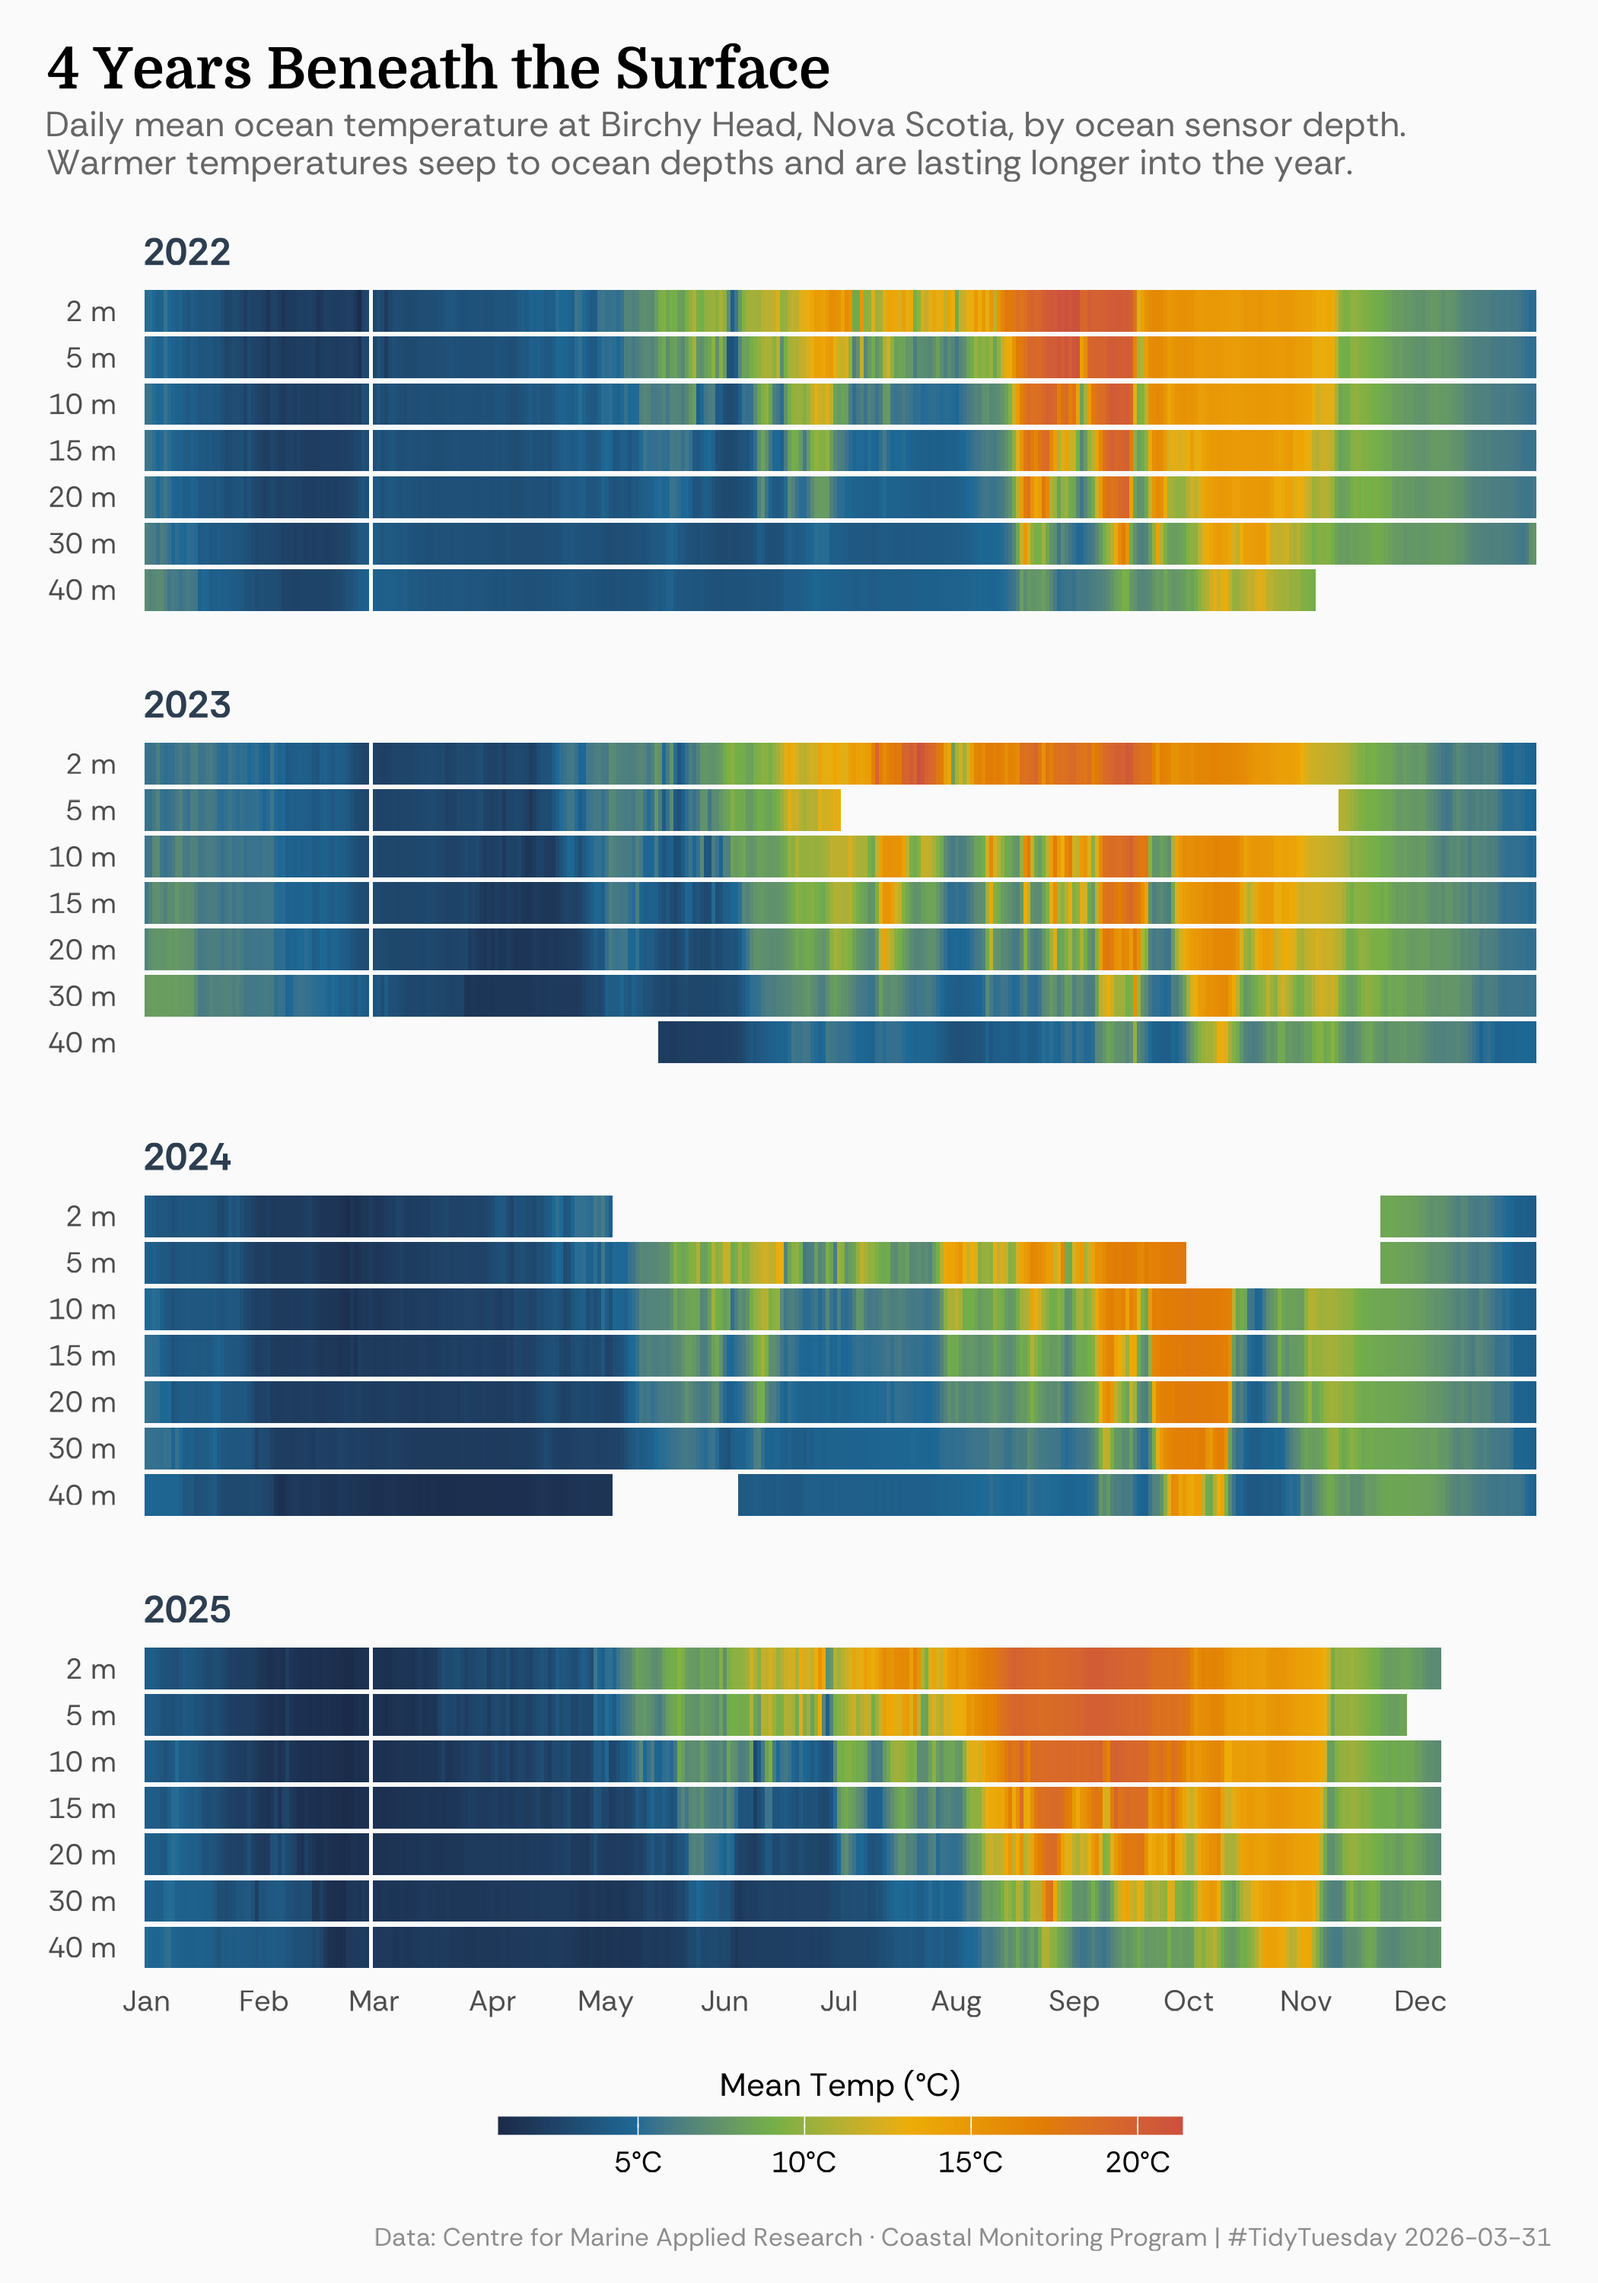
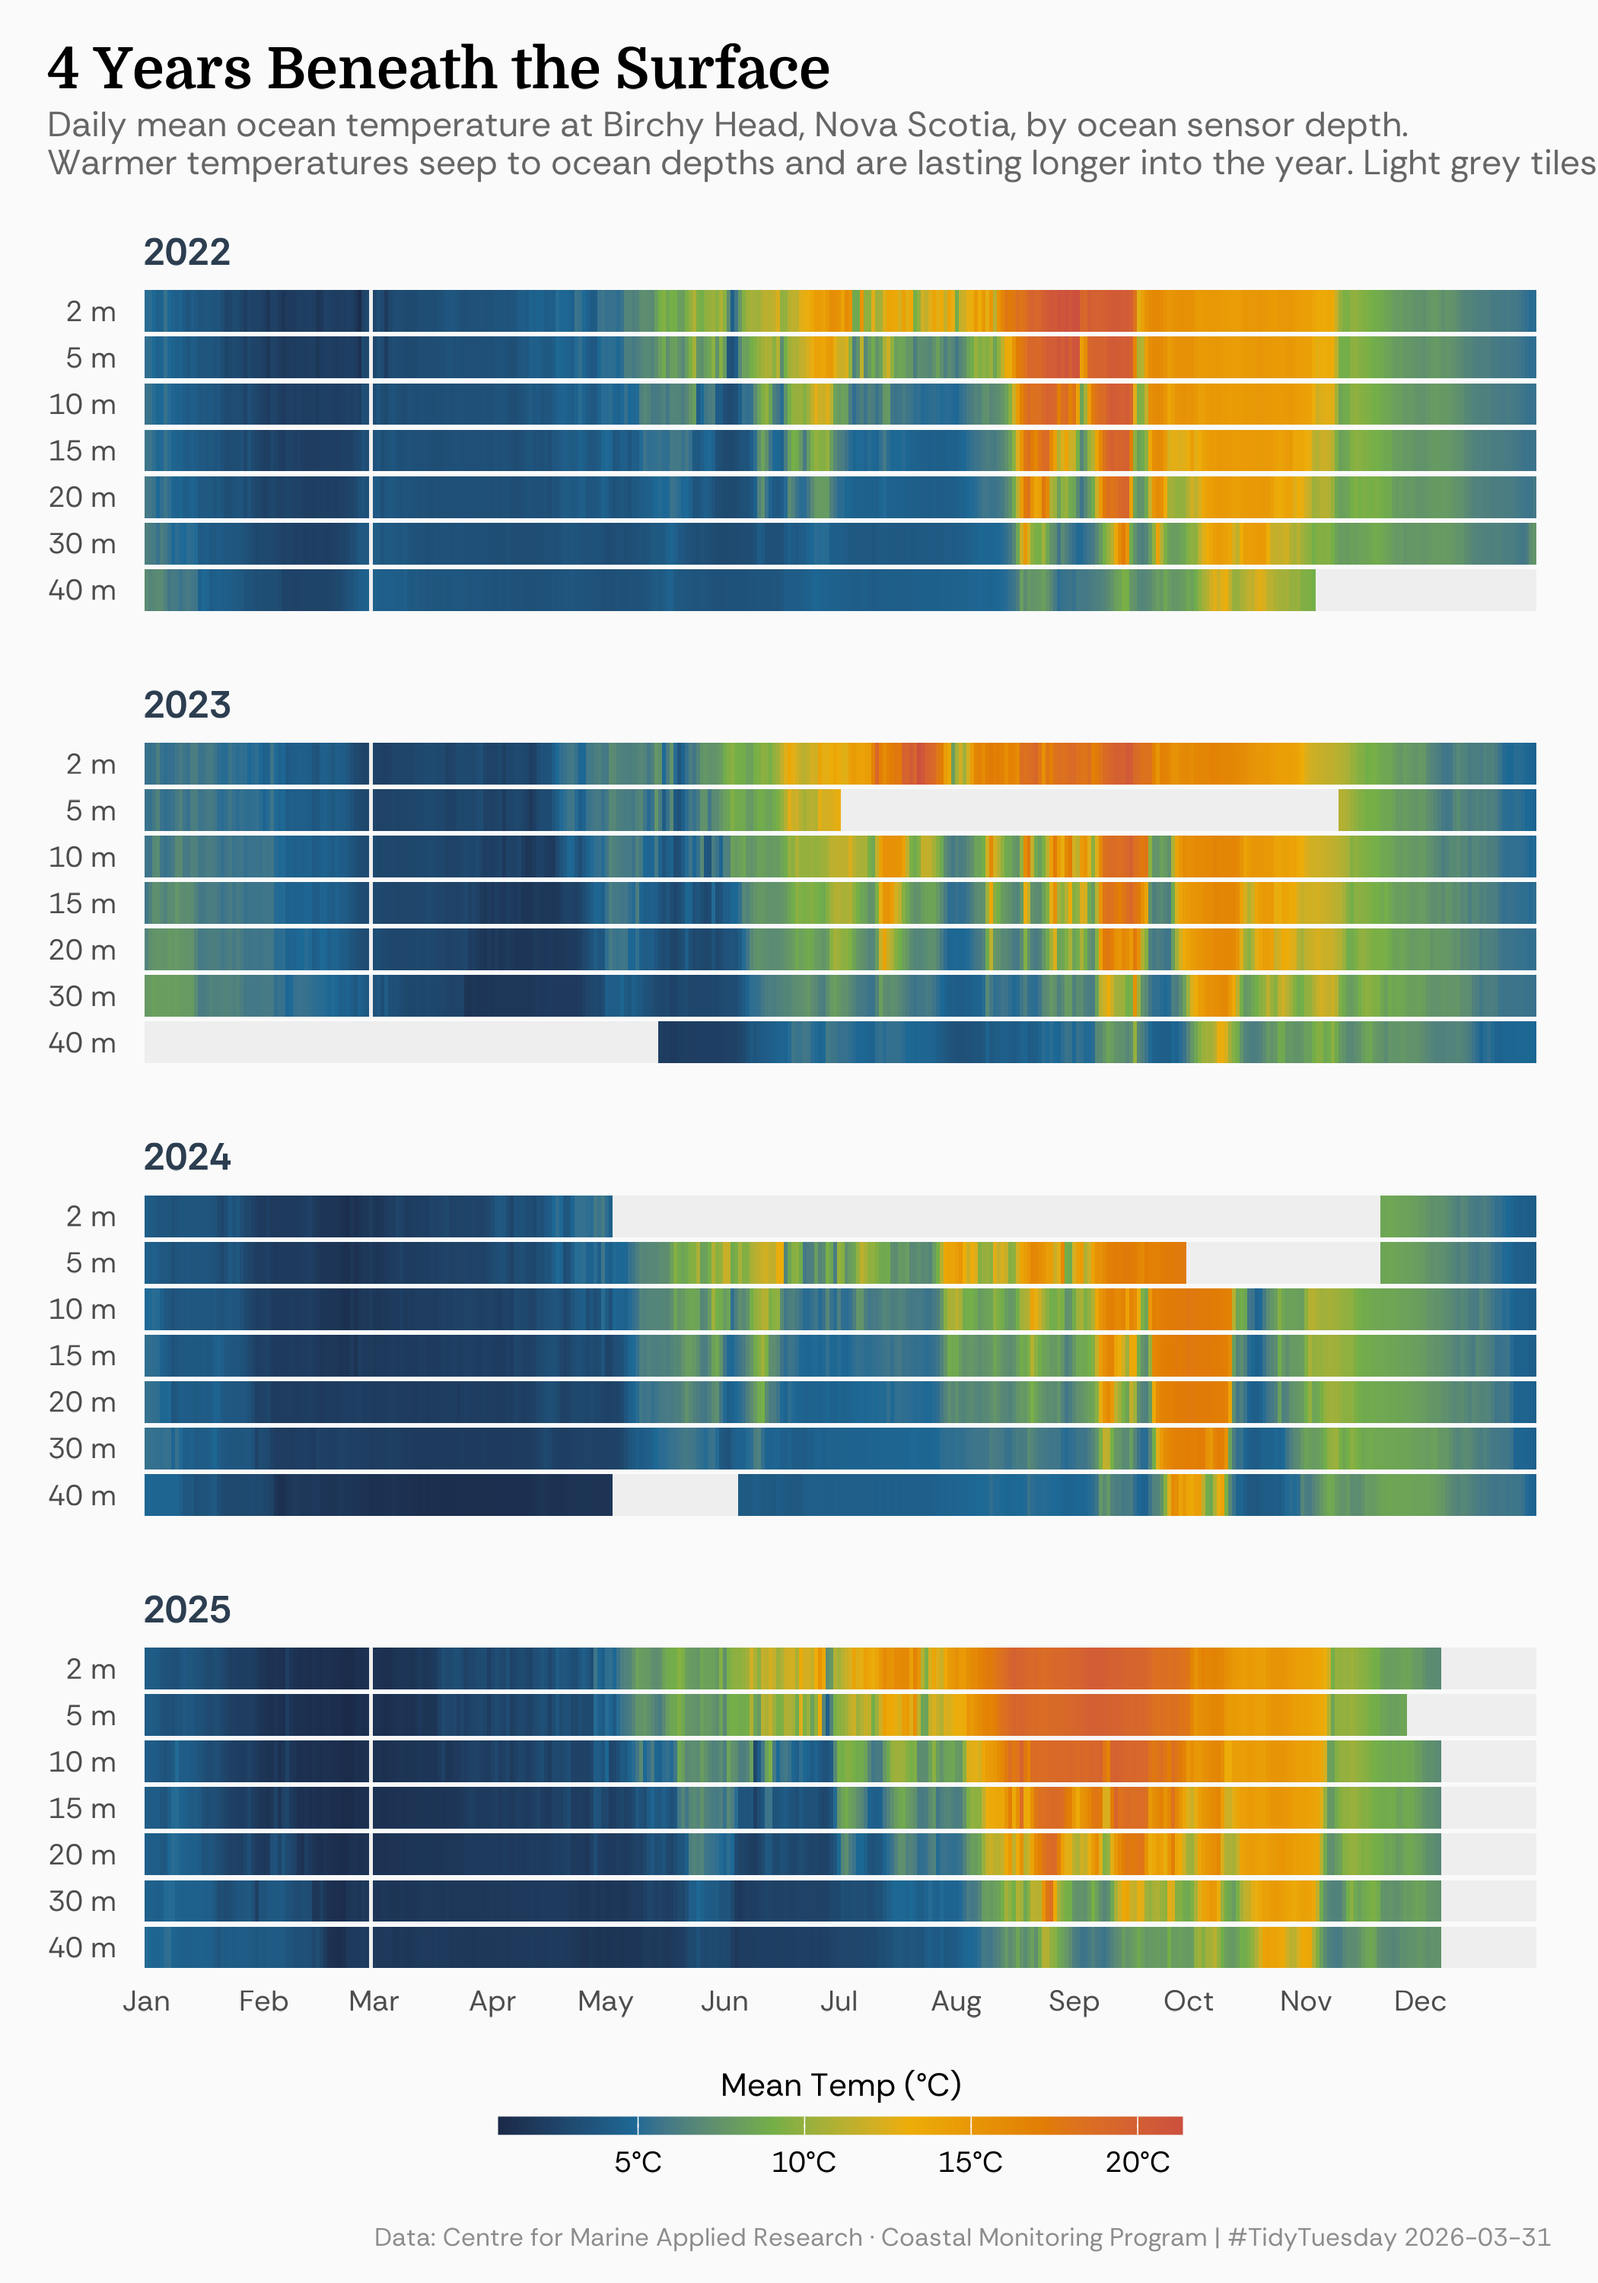
Add missing data visualization to ocean temp heatmap and add bird sea sightings plot

Changed region(s): [[0.031, 0.031, 0.8667, 0.062], [0.9595, 0.062, 1.0, 0.093], [0.8667, 0.062, 0.9286, 0.093]]

diff --git a/TidyTuesday/2026/readme.md b/TidyTuesday/2026/readme.md
@@ -60,3 +60,9 @@ longer throughout the year, when compared to previous years.
 This visualisation explores the growth of the Repair Café movement across different countries. The plot shows the annual number of logged repairs for the six most active countries from 2015 to 2025, highlighting the surge in repair activities and the increasing popularity of the movement. Netherlands comes out on top! 
 
 ![](repair_growth_by_country.png)
+
+#### Bird Sea Sightings
+
+This visualisation explores bird sightings at sea, showing the distribution and patterns of marine bird observations. The plot provides insights into species occurrence, sighting frequencies, and spatial patterns across different oceanic regions.
+
+![](bird_sea_sighting.png)
